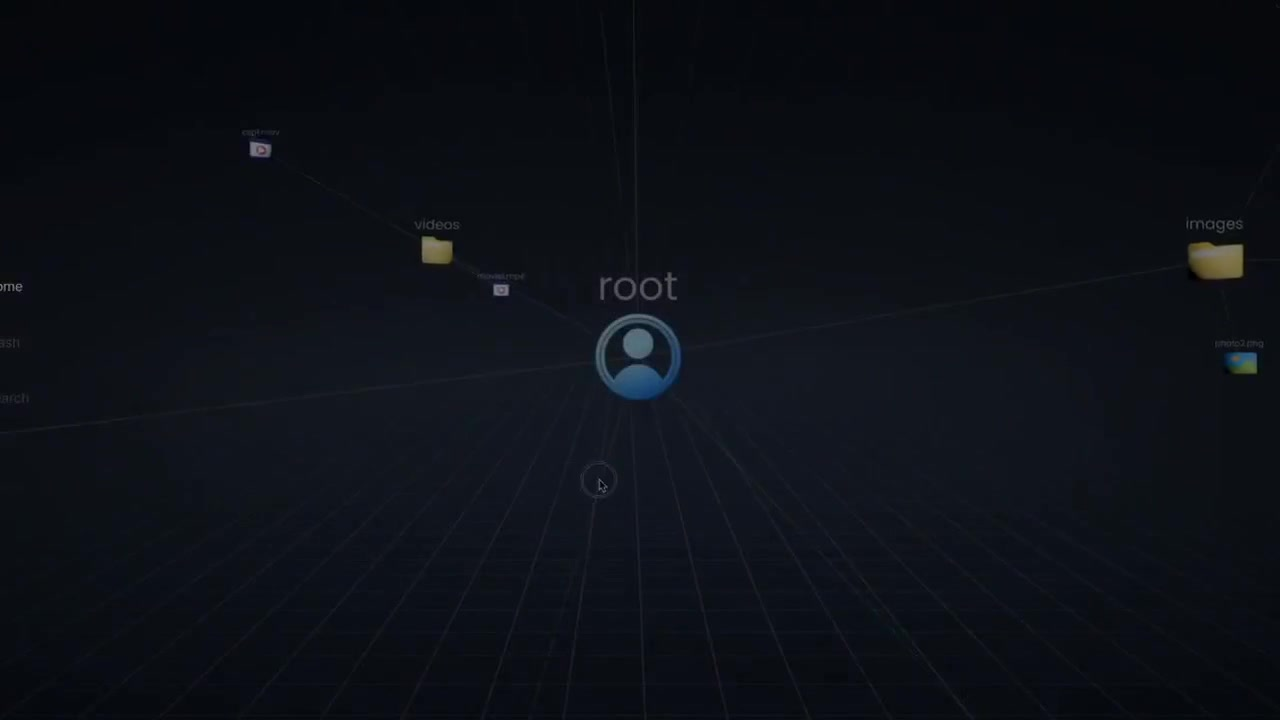
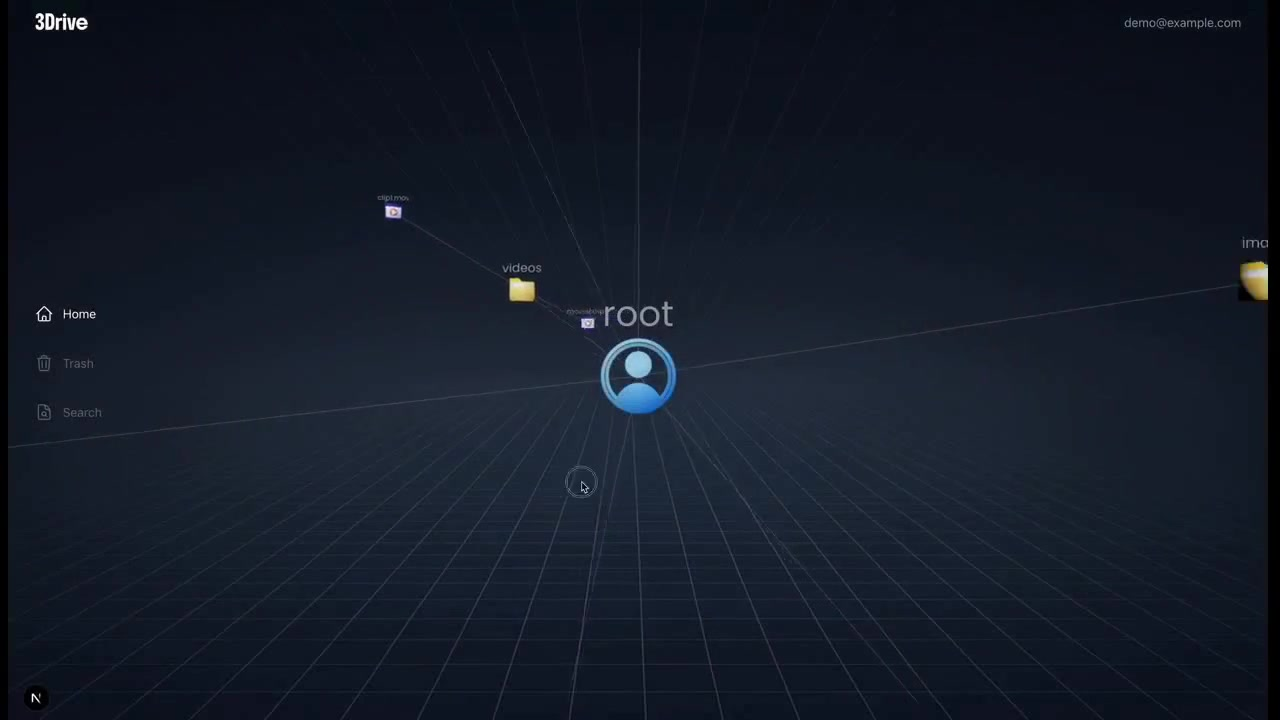
Set 3Drive thumbnail to seven-second frame

diff --git a/app.js b/app.js
@@ -9,7 +9,7 @@ const projects = [
   {id:'zbrush', title:'ZBRUSH STUDY', category:'ZBrush', type:'ZBrush', date:'2024–2026', sortKey:202606, cover:'Personal/ZBrush/Zbrush/202606_Rock3/1.jpg', images:['Personal/ZBrush/Zbrush/202606_Rock3/1.jpg','Personal/ZBrush/Zbrush/202606_Rock3/2.jpg','Personal/ZBrush/Zbrush/202606_Rock3/3.jpg','Personal/ZBrush/Zbrush/202606_Rock3/4.jpg','Personal/ZBrush/Zbrush/202606_Rock3/5.jpg','Personal/ZBrush/Zbrush/202604_Rock2/1.jpg','Personal/ZBrush/Zbrush/202604_Rock2/2.jpg','Personal/ZBrush/Zbrush/202603_Rock/1.jpg','Personal/ZBrush/Zbrush/2024_Tile Study/1.jpg','Personal/ZBrush/Zbrush/2024_Tile Study/2.jpg','Personal/ZBrush/Zbrush/2024_Tile Study/3.jpg']},
 ];
 const universityProjects = [
-  {id:'3drive', title:'3Drive', category:'University', type:'Project', date:'', cover:'University Project/3Drive/PV-web.mp4?v=2', poster:'University Project/3Drive/poster.jpg?v=3', images:['University Project/3Drive/PV-web.mp4?v=2']},
+  {id:'3drive', title:'3Drive', category:'University', type:'Project', date:'', cover:'University Project/3Drive/PV-web.mp4?v=2', poster:'University Project/3Drive/poster.jpg?v=4', images:['University Project/3Drive/PV-web.mp4?v=2']},
   {id:'kirna', title:'Kirna', category:'University', type:'Project', date:'', images:[]},
   {id:'puangjump', title:'Puang Jump', category:'University', type:'Project', date:'', images:[]},
 ];

diff --git a/index.html b/index.html
@@ -76,6 +76,6 @@
       </aside>
     </dialog>
     <div id="toast" class="toast" role="status" aria-live="polite"></div>
-    <script src="app.js?v=university-video-poster-v3"></script>
+    <script src="app.js?v=university-video-poster-v4"></script>
   </body>
 </html>
